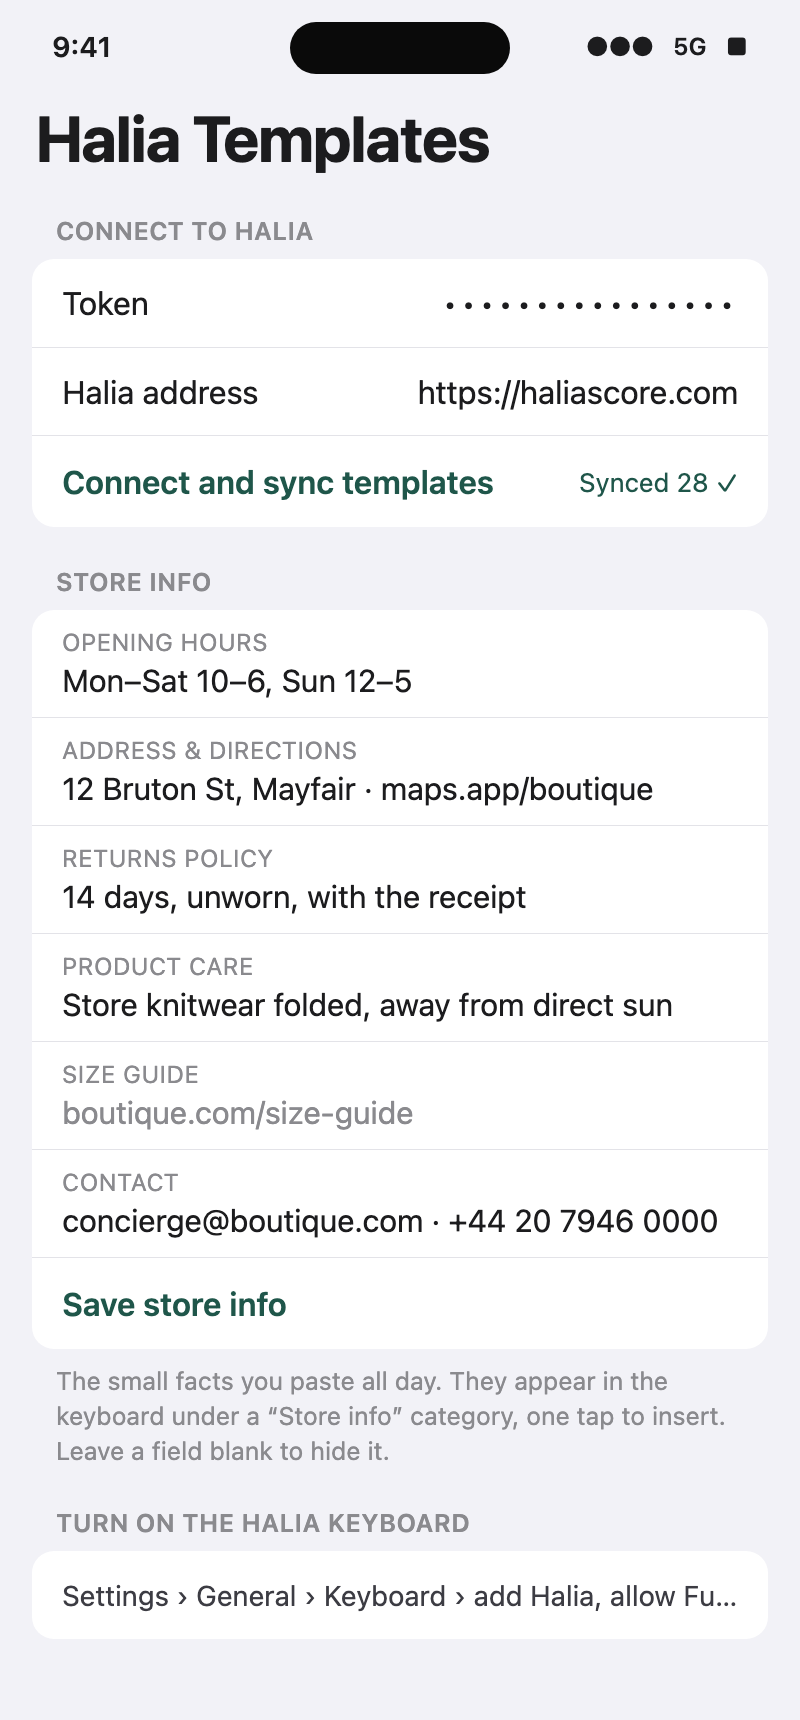
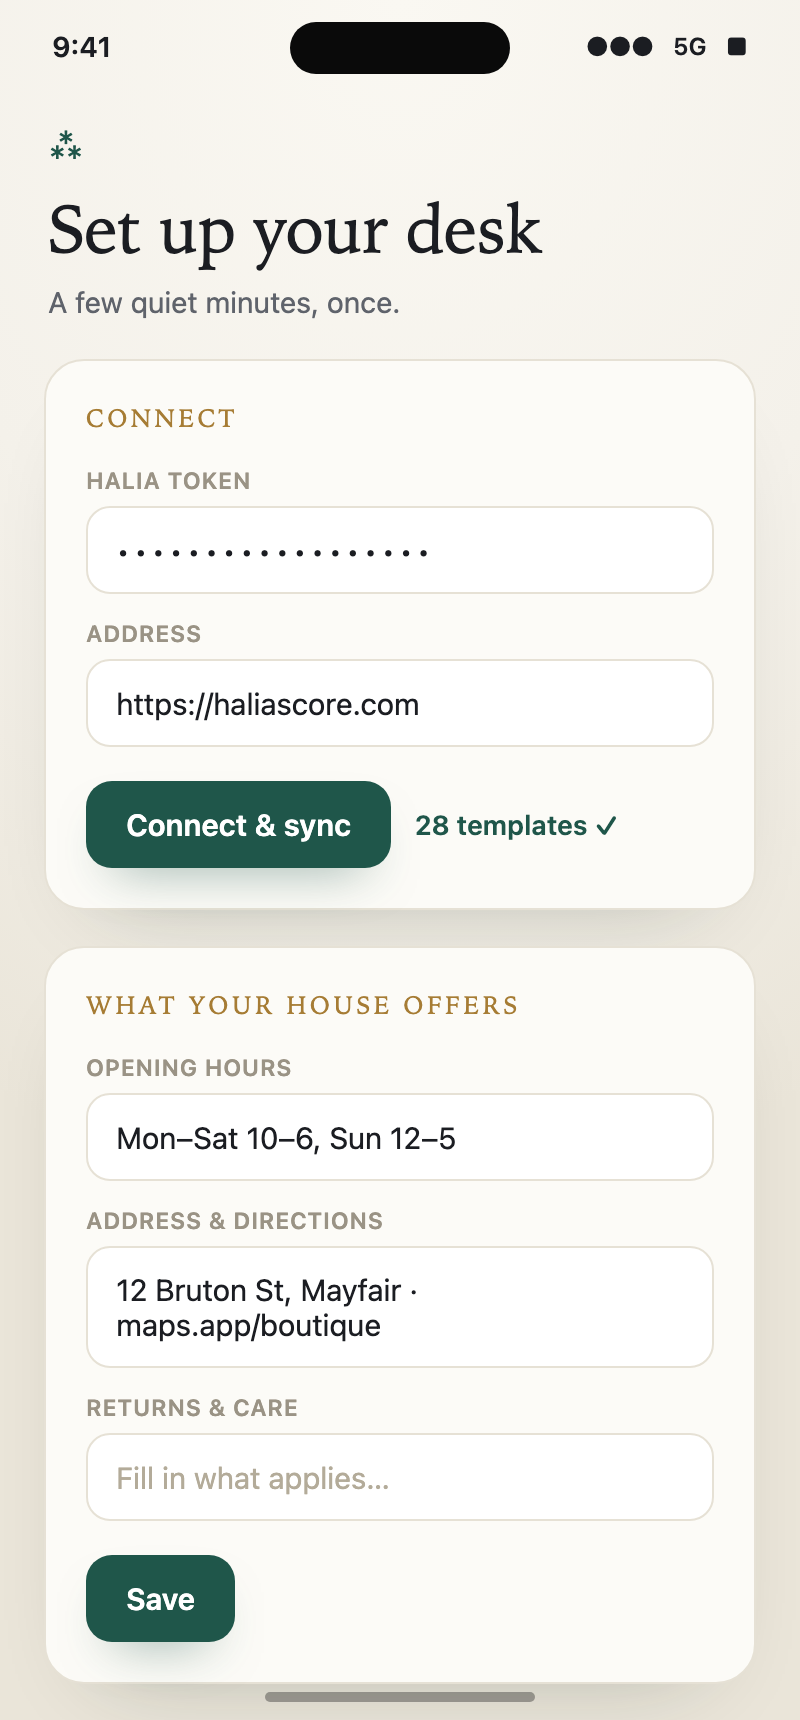
ios: elevate the host app — luxury welcome + card-based setup
Replace the stock iOS Settings form with a designed experience: a welcome
screen (paper gradient, gold monogram, serif Halia wordmark, tagline,
Begin) and an elevated setup (serif headers, gold small-caps labels,
rounded cards and fields, green accents). System serif (New York) for
display; no font embedding. Model logic unchanged. Returning users skip
the welcome. Type-checks against the iOS SDK. Mocks updated (welcome + the
new setup).

diff --git a/ios/HaliaKeyboard/HostApp/RootView.swift b/ios/HaliaKeyboard/HostApp/RootView.swift
@@ -1,7 +1,8 @@
 // Target membership: HOST APP ONLY.
 //
-// One screen: connect with your Halia token, sync templates into the App Group, optionally set a
-// client first name, and a short guide to turning the keyboard on. That is the whole host app.
+// The app you download: a quiet, luxury welcome, then an elevated setup where you connect and enter
+// your store info. Deliberately not the stock iOS Settings look: paper ground, the system serif
+// (New York) for display, one green accent, gold hairlines.
 import SwiftUI
 
 @MainActor
@@ -30,22 +31,19 @@ final class RootModel: ObservableObject {
     func sync() async {
         let t = token.trimmingCharacters(in: .whitespacesAndNewlines)
         guard !t.isEmpty else {
-            status = "Paste your Halia extension token first."; isError = true; return
+            status = "Paste your Halia token first."; isError = true; return
         }
         busy = true; isError = false; status = "Syncing…"
         Credentials.token = t
         Credentials.baseURL = baseURL
-
         do {
             let fetched = try await HaliaAPI(baseURL: baseURL, token: t).fetchTemplates()
             TemplateStore.save(fetched)
             templates = fetched
             if fetched.isEmpty {
-                status = "Connected, but Halia has no templates yet. Add some in Halia, Settings."
-                isError = true
+                status = "Connected. No templates in Halia yet."; isError = true
             } else {
-                status = "Synced \(fetched.count) templates."
-                isError = false
+                status = "\(fetched.count) templates ✓"; isError = false
             }
         } catch {
             status = (error as? LocalizedError)?.errorDescription ?? error.localizedDescription
@@ -55,91 +53,207 @@ final class RootModel: ObservableObject {
     }
 
     func saveInfo() {
-        for label in StoreInfoStore.labels {
-            StoreInfoStore.set(info[label] ?? "", for: label)
+        for label in StoreInfoStore.labels { StoreInfoStore.set(info[label] ?? "", for: label) }
+    }
+}
+
+// MARK: - Palette + shared pieces
+
+private enum Palette {
+    static let ink       = Color(red: 0.106, green: 0.114, blue: 0.133)
+    static let soft      = Color(red: 0.373, green: 0.388, blue: 0.420)
+    static let faint     = Color(red: 0.604, green: 0.576, blue: 0.522)
+    static let brand     = Color(red: 0.122, green: 0.337, blue: 0.290)
+    static let brandDeep = Color(red: 0.078, green: 0.227, blue: 0.196)
+    static let gold      = Color(red: 0.651, green: 0.486, blue: 0.204)
+    static let card      = Color(red: 0.988, green: 0.984, blue: 0.969)
+    static let line      = Color(red: 0.902, green: 0.882, blue: 0.835)
+    static let bgTop     = Color(red: 0.980, green: 0.973, blue: 0.949)
+    static let bg        = Color(red: 0.957, green: 0.945, blue: 0.918)
+    static let bg2       = Color(red: 0.918, green: 0.898, blue: 0.851)
+}
+
+private func serif(_ size: CGFloat, _ weight: Font.Weight = .regular) -> Font {
+    .system(size: size, weight: weight, design: .serif)
+}
+
+private let mark = "\u{2042}"   // ⁂ the Halia asterism
+
+private struct PaperBackground: View {
+    var body: some View {
+        LinearGradient(colors: [Palette.bgTop, Palette.bg, Palette.bg2],
+                       startPoint: .top, endPoint: .bottom)
+            .ignoresSafeArea()
+    }
+}
+
+private struct Card<Content: View>: View {
+    let content: Content
+    init(@ViewBuilder content: () -> Content) { self.content = content() }
+    var body: some View {
+        VStack(alignment: .leading, spacing: 12) { content }
+            .padding(20)
+            .background(RoundedRectangle(cornerRadius: 20).fill(Palette.card))
+            .overlay(RoundedRectangle(cornerRadius: 20).stroke(Palette.line, lineWidth: 1))
+            .shadow(color: Color.black.opacity(0.08), radius: 20, x: 0, y: 12)
+    }
+}
+
+private func cardLabel(_ text: String) -> some View {
+    Text(text.uppercased()).font(serif(12.5)).foregroundColor(Palette.gold)
+}
+
+private struct LuxeField: View {
+    let label: String
+    @Binding var text: String
+    var secure = false
+    var keyboard: UIKeyboardType = .default
+    var body: some View {
+        VStack(alignment: .leading, spacing: 6) {
+            Text(label.uppercased()).font(.system(size: 11.5, weight: .semibold)).foregroundColor(Palette.faint)
+            Group {
+                if secure { SecureField("", text: $text) } else { TextField("", text: $text) }
+            }
+            .textInputAutocapitalization(.never)
+            .autocorrectionDisabled()
+            .keyboardType(keyboard)
+            .font(.system(size: 15))
+            .foregroundColor(Palette.ink)
+            .padding(.horizontal, 14).padding(.vertical, 12)
+            .background(RoundedRectangle(cornerRadius: 12).fill(Color.white))
+            .overlay(RoundedRectangle(cornerRadius: 12).stroke(Palette.line, lineWidth: 1))
         }
     }
 }
 
+private struct LuxeButton: View {
+    let title: String
+    let action: () -> Void
+    init(_ title: String, action: @escaping () -> Void) { self.title = title; self.action = action }
+    var body: some View {
+        Button(action: action) {
+            Text(title).font(.system(size: 15, weight: .semibold)).foregroundColor(.white)
+                .padding(.horizontal, 20).padding(.vertical, 13)
+                .background(RoundedRectangle(cornerRadius: 13).fill(Palette.brand))
+        }
+        .buttonStyle(.plain)
+    }
+}
+
+// MARK: - Root
+
 struct RootView: View {
     @StateObject private var model = RootModel()
-
-    private let brand = Color(red: 0.12, green: 0.34, blue: 0.29) // #1F564A
+    @State private var showSetup = Credentials.hasToken   // returning users skip the welcome
 
     var body: some View {
-        NavigationView {
-            Form {
-                Section("Connect to Halia") {
-                    SecureField("Halia extension token", text: $model.token)
-                        .textInputAutocapitalization(.never)
-                        .autocorrectionDisabled()
-                    TextField("Halia address", text: $model.baseURL)
-                        .textInputAutocapitalization(.never)
-                        .autocorrectionDisabled()
-                        .keyboardType(.URL)
-                    Button {
-                        Task { await model.sync() }
-                    } label: {
-                        HStack {
-                            Text(model.busy ? "Syncing…" : "Connect and sync templates")
-                            if model.busy { Spacer(); ProgressView() }
+        ZStack {
+            PaperBackground()
+            if showSetup {
+                SetupView(model: model)
+                    .transition(.move(edge: .trailing).combined(with: .opacity))
+            } else {
+                WelcomeView { withAnimation(.easeInOut(duration: 0.45)) { showSetup = true } }
+                    .transition(.opacity)
+            }
+        }
+    }
+}
+
+// MARK: - Welcome
+
+private struct WelcomeView: View {
+    let onBegin: () -> Void
+    var body: some View {
+        ZStack {
+            PaperBackground()
+            Text(mark).font(serif(300)).foregroundColor(Palette.gold).opacity(0.05)
+                .offset(x: 120, y: -260)
+            VStack(spacing: 0) {
+                Spacer()
+                Text(mark).font(serif(30)).foregroundColor(Palette.brand)
+                Text("Halia").font(serif(74)).foregroundColor(Palette.ink).padding(.top, 18)
+                RoundedRectangle(cornerRadius: 1).fill(Palette.gold).frame(width: 46, height: 2).padding(.vertical, 26)
+                Text("Private client care, in your pocket.")
+                    .font(serif(22)).foregroundColor(Palette.brandDeep)
+                    .multilineTextAlignment(.center)
+                Text("Your templates, your clients and your house voice, one tap away inside WhatsApp.")
+                    .font(.system(size: 15)).foregroundColor(Palette.soft)
+                    .multilineTextAlignment(.center).padding(.top, 14).padding(.horizontal, 44)
+                Spacer()
+                VStack(spacing: 16) {
+                    Button(action: onBegin) {
+                        Text("Begin").font(.system(size: 17, weight: .semibold)).foregroundColor(.white)
+                            .frame(maxWidth: .infinity).padding(.vertical, 17)
+                            .background(RoundedRectangle(cornerRadius: 16).fill(Palette.brand))
+                    }
+                    .buttonStyle(.plain)
+                    Button(action: onBegin) {
+                        (Text("Already set up?  ").foregroundColor(Palette.soft)
+                         + Text("Connect").foregroundColor(Palette.brand).bold())
+                            .font(.system(size: 14))
+                    }
+                    .buttonStyle(.plain)
+                }
+                .padding(.horizontal, 34).padding(.bottom, 44)
+            }
+        }
+    }
+}
+
+// MARK: - Setup
+
+private struct SetupView: View {
+    @ObservedObject var model: RootModel
+
+    var body: some View {
+        ScrollView {
+            VStack(alignment: .leading, spacing: 18) {
+                VStack(alignment: .leading, spacing: 5) {
+                    Text(mark).font(serif(20)).foregroundColor(Palette.brand)
+                    Text("Set up your desk").font(serif(34)).foregroundColor(Palette.ink)
+                    Text("A few quiet minutes, once.").font(.system(size: 14.5)).foregroundColor(Palette.soft)
+                }
+                .padding(.top, 8).padding(.bottom, 2)
+
+                Card {
+                    cardLabel("Connect")
+                    LuxeField(label: "Halia token", text: $model.token, secure: true)
+                    LuxeField(label: "Address", text: $model.baseURL, keyboard: .URL)
+                    HStack(spacing: 12) {
+                        LuxeButton(model.busy ? "Syncing…" : "Connect & sync") { Task { await model.sync() } }
+                            .disabled(model.busy)
+                        if !model.status.isEmpty {
+                            Text(model.status).font(.system(size: 13.5, weight: .semibold))
+                                .foregroundColor(model.isError ? .red : Palette.brand)
                         }
                     }
-                    .disabled(model.busy)
-                    if !model.status.isEmpty {
-                        Text(model.status)
-                            .font(.footnote)
-                            .foregroundStyle(model.isError ? Color.red : brand)
-                    }
+                    .padding(.top, 4)
                 }
 
-                if !model.templates.isEmpty {
-                    Section("Your templates (\(model.templates.count))") {
-                        ForEach(model.templates) { t in
-                            VStack(alignment: .leading, spacing: 3) {
-                                Text(t.name).font(.subheadline).bold()
-                                Text(t.category).font(.caption).foregroundStyle(.secondary)
-                                Text(t.preview).font(.caption).foregroundStyle(.secondary).lineLimit(1)
-                            }
-                            .padding(.vertical, 2)
-                        }
-                    }
-                }
-
-                Section {
+                Card {
+                    cardLabel("What your house offers")
                     ForEach(StoreInfoStore.labels, id: \.self) { label in
-                        TextField(label, text: Binding(
+                        LuxeField(label: label, text: Binding(
                             get: { model.info[label] ?? "" },
-                            set: { model.info[label] = $0 }
-                        ))
-                        .onSubmit { model.saveInfo() }
+                            set: { model.info[label] = $0 }))
                     }
-                    Button("Save store info") { model.saveInfo() }
-                } header: {
-                    Text("Store info")
-                } footer: {
-                    Text("The small facts you paste all day. Fill in what applies. They appear in the keyboard under a \u{201C}Store info\u{201D} category, one tap to insert. Leave a field blank to hide it.")
+                    LuxeButton("Save") { model.saveInfo() }.padding(.top, 4)
                 }
+                Text("These appear in the keyboard under a “Store info” category, one tap to insert.")
+                    .font(.system(size: 12.5)).foregroundColor(Palette.faint).padding(.horizontal, 4)
 
-                Section {
-                    Label("Settings, General, Keyboard, Keyboards, Add New Keyboard, choose Halia.",
-                          systemImage: "1.circle")
-                        .font(.footnote)
-                    Label("Open Halia in that list and turn on Allow Full Access.",
-                          systemImage: "2.circle")
-                        .font(.footnote)
-                    Label("In WhatsApp, tap the globe to switch to Halia. To personalise, copy the client's name or number in the chat, then tap Use copied client.",
-                          systemImage: "3.circle")
-                        .font(.footnote)
-                } header: {
-                    Text("Turn on the Halia keyboard")
-                } footer: {
-                    Text("Full Access lets the keyboard read what you copy and reach your Halia account, so it can draft a personal message and fill the client's name. Halia acts only on what you copy and tap.")
+                Card {
+                    cardLabel("Turn on the keyboard")
+                    Text("Settings › General › Keyboard › Keyboards › add Halia, then allow Full Access.")
+                        .font(.system(size: 14)).foregroundColor(Palette.soft).lineSpacing(2)
+                    Text("In WhatsApp, tap the globe to switch to Halia. To personalise, copy the client's name in the chat, then tap Use copied client.")
+                        .font(.system(size: 14)).foregroundColor(Palette.soft).lineSpacing(2)
                 }
             }
-            .navigationTitle("Halia Templates")
+            .padding(.horizontal, 22).padding(.bottom, 44)
         }
-        .navigationViewStyle(.stack)
+        .background(PaperBackground())
     }
 }
 
